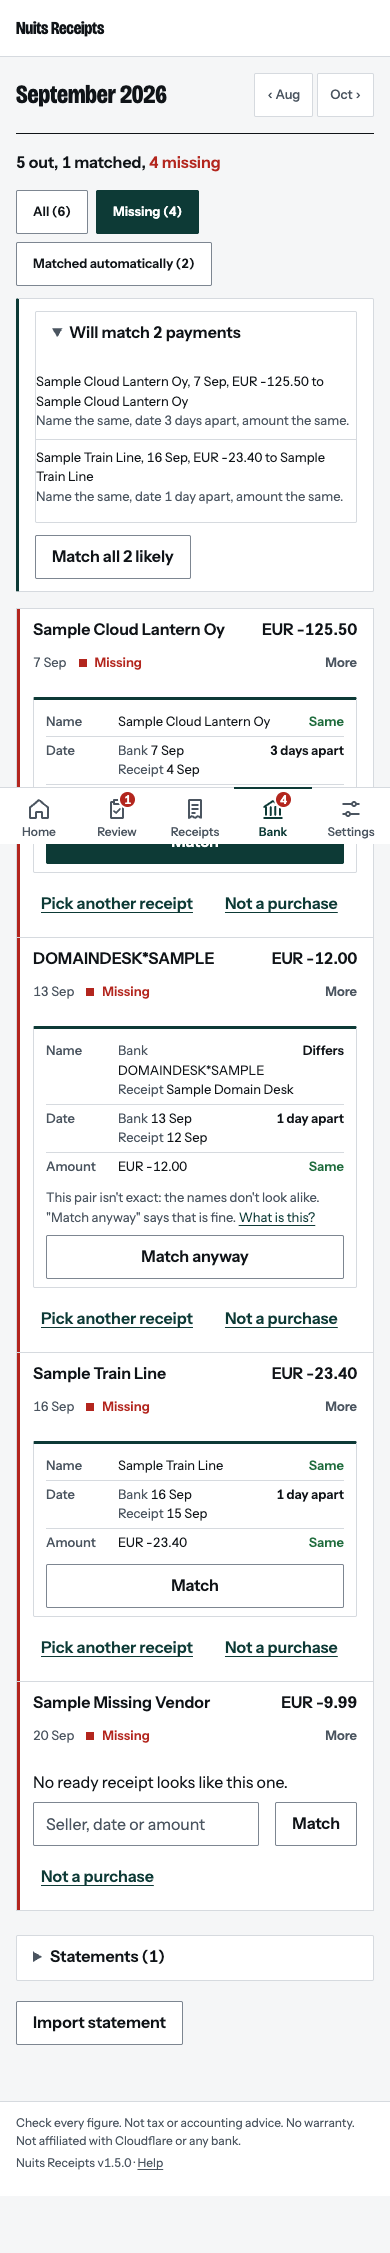
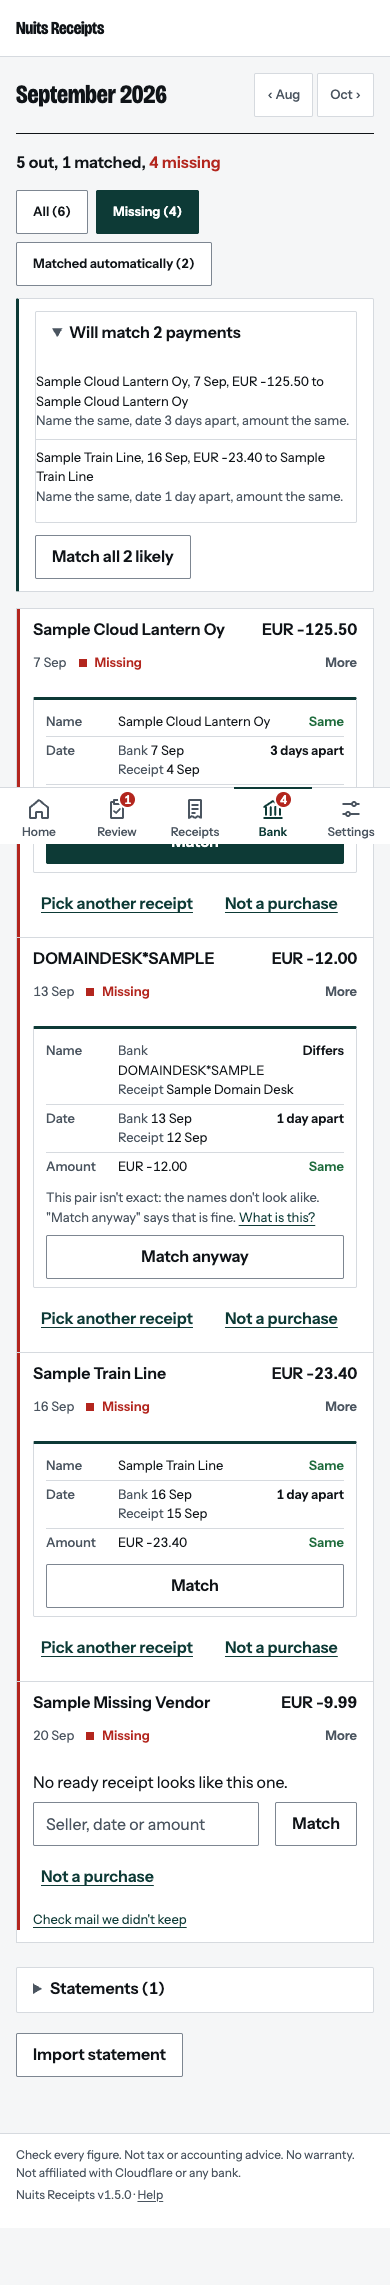
feat(settings): show mail we didn't keep, with Allow this sender
Lists dropped and ignored mail from the existing inbound_mail log (no migration),
reasons in MAIL_REASONS, Bank and Help links, and checklist proof from any arrived email.

diff --git a/src/views.ts b/src/views.ts
@@ -9,7 +9,7 @@ import { config, MAX_ALLOWED_SENDERS } from './config';
 import { setupParts, SETTINGS_CSP } from './setup';
 import { setupChecklist, setupSteps } from './checklist';
 import { helpBody } from './help';
-import { heldMail, ignoredSenders } from './inbound';
+import { droppedMail, hasRecentDropped, heldMail, ignoredSenders, reasonAllows, reasonWords } from './inbound';
 import { heldSection } from './all';
 import { mergePlan } from './dedupe';
 import { readableText } from './receipts';
@@ -795,6 +795,7 @@ export async function payments(
         ).all<Receipt>()
       ).results
     : [];
+  const droppedRecently = missing.length ? await hasRecentDropped(env) : false;
   const dayIn = (value: string | null, other: string) =>
     value ? day(value, value.slice(0, 4) !== other.slice(0, 4)) : 'None';
   // Name, Date and Amount side by side, each marked in words, with the one button under it.
@@ -877,7 +878,11 @@ export async function payments(
           : receipts.length
             ? matchControls(t, receipts, 'pick-receipts', 'Receipt', likely, first)
             : `<p class="none">No receipt found yet.</p><a class="btn ${first ? 'primary' : 'secondary'}" href="/add">Add receipt</a>`;
-        controls = `<div class="fixrow">${find}<form action="/payments/${t.id}" method="post"><button class="linkbtn" name="receipt_required" value="0">${STATUS.notPurchase}</button></form></div>${matchError(t.id)}`;
+        const dropped =
+          droppedRecently && !likely && !wait
+            ? `<p class="small"><a href="/settings?open=mail#mail">Check mail we didn't keep</a></p>`
+            : '';
+        controls = `<div class="fixrow">${find}<form action="/payments/${t.id}" method="post"><button class="linkbtn" name="receipt_required" value="0">${STATUS.notPurchase}</button></form></div>${dropped}${matchError(t.id)}`;
         if (receipts.length && !wait) extra.push('<p><a href="/add">Add a receipt</a></p>');
         const sides = credits.filter(
           (c) => c.account_key !== t.account_key && c.currency === t.currency && c.amount_minor === -t.amount_minor,
@@ -1278,12 +1283,32 @@ async function sendersPart(env: Env, open: boolean): Promise<string> {
   return sect('senders', 'Senders', `${allowed.length} allowed`, `${approved}${add}${ignoredList}`, open);
 }
 
+// Settings > Mail we didn't keep: what reached the app and was not read, from
+// the log that is already stored. Never the message itself.
+async function mailLogPart(env: Env, open: boolean): Promise<string> {
+  const rows = await droppedMail(env);
+  const allowed = config(env).allowedSenders;
+  const item = (m: (typeof rows)[number]) => {
+    const when = day(m.received_at.slice(0, 10), m.received_at.slice(0, 4) !== String(new Date().getUTCFullYear()));
+    const offer =
+      reasonAllows(m.reason) && !allowed.has(m.sender) && m.sender.includes('@') && !/[\s<>]/.test(m.sender);
+    const action = offer
+      ? `<form class="sc" action="/senders/approve" method="post"><input type="hidden" name="address" value="${escape(m.sender)}"><input type="hidden" name="back" value="mail"><button class="linkbtn" aria-label="Allow ${escape(m.sender)}">Allow this sender</button></form>`
+      : '';
+    return `<li class="srow"><div class="sl"><span class="flabel">${escape(m.sender)}</span><span class="meta">${escape(when)}${m.subject ? ` · ${escape(m.subject)}` : ''}</span><span class="meta">${escape(reasonWords(m.reason))}</span></div>${action}</li>`;
+  };
+  const body = rows.length
+    ? `<p class="meta">The latest ${rows.length === 1 ? 'one' : rows.length} that reached the app and were not read. Only the sender, subject and reason are kept.</p><ul class="plain rowlist">${rows.map(item).join('')}</ul>`
+    : '<p>Every email that reached the app was kept.</p>';
+  return sect('mail', "Mail we didn't keep", rows.length ? String(rows.length) : 'None', body, open);
+}
+
 // The form that adds a bank account in Settings, as a failure scope names it.
 export const NEW_ACCOUNT = 'account:new';
 export async function settingsPage(env: Env, params = new URLSearchParams(), origin = ''): Promise<Response> {
   const settings = config(env);
   // The section the last action touched opens; the rest stay folded.
-  const opened = feedback(params)?.section ?? '';
+  const opened = feedback(params)?.section ?? (params.get('open') === 'mail' ? 'mail' : '');
   const oneDrive = await oneDrivePart(env, opened === 'onedrive', origin);
   const setup = await setupParts(env, params, opened);
   const [accounts, rules] = await Promise.all([
@@ -1334,6 +1359,7 @@ export async function settingsPage(env: Env, params = new URLSearchParams(), ori
     ),
     sect('setup-email', 'Email', escape(settings.receiptAddress || 'Off'), setup.email, opens('email')),
     await sendersPart(env, opened === 'senders'),
+    await mailLogPart(env, opened === 'mail'),
     accountsPart,
     rulesPart,
     sect('setup-accountant', 'Export', escape(settings.accountantLabel), setup.accountant, opens('accountant')),

diff --git a/test/mail-log.test.ts b/test/mail-log.test.ts
@@ -1,0 +1,77 @@
+import { env } from 'cloudflare:workers';
+import { expect, test } from 'vitest';
+import { droppedMail, hasRecentDropped, MAIL_REASONS, reasonWords } from '../src/inbound';
+import { locationOf, request, signed } from './helpers';
+
+const sources: Record<string, string> = JSON.parse(env.SOURCE_FILES);
+
+test('every reason the code logs has words', () => {
+  const found = new Set<string>();
+  const skip = new Set(['imported', 'held', 'ignored', 'dropped', 'unknown', 'fail', 'pass']);
+  for (const file of ['inbound.ts', 'receipts.ts']) {
+    const text = sources[file] ?? '';
+    expect(text.length, file).toBeGreaterThan(0);
+    for (const m of text.matchAll(/(?:logMail|discard)\([^;]*;/g))
+      for (const t of m[0].matchAll(/'([a-z_]+)'/g)) if (!skip.has(t[1]!)) found.add(t[1]!);
+    for (const m of text.matchAll(/reason='(\w+)'/g)) found.add(m[1]!);
+    for (const m of text.matchAll(/'held','(\w+)'/g)) found.add(m[1]!);
+    for (const m of text.matchAll(/const reason = [^;]*;/g))
+      for (const t of m[0].matchAll(/'([a-z_]+)'/g)) found.add(t[1]!);
+  }
+  for (const word of skip) found.delete(word);
+  expect(found.size).toBeGreaterThan(5);
+  for (const reason of found) expect(Object.keys(MAIL_REASONS), reason).toContain(reason);
+  for (const reason of Object.keys(MAIL_REASONS)) expect(reasonWords(reason).length, reason).toBeGreaterThan(3);
+});
+
+const log = (sender: string, state: string, reason: string, at = new Date().toISOString(), subject = 'Hello') =>
+  env.DB.prepare('INSERT INTO inbound_mail (id,received_at,sender,subject,state,reason) VALUES (?,?,?,?,?,?)')
+    .bind(crypto.randomUUID(), at, sender, subject, state, reason)
+    .run();
+
+test('Settings says so when nothing was dropped', async () => {
+  const html = await (await request('/settings')).text();
+  expect(html).toContain('Every email that reached the app was kept.');
+  expect(await hasRecentDropped(env)).toBe(false);
+});
+
+test('Settings lists dropped mail newest first with words, and offers Allow only where it fits', async () => {
+  await log('shop@elsewhere.example', 'ignored', 'sender_ignored', '2026-09-01T10:00:00.000Z', 'Older <b>one</b>');
+  await log('spoof@bank.example', 'dropped', 'sender_auth_failed', '2026-09-02T10:00:00.000Z');
+  await log('kept@example.org', 'imported', 'allowed', '2026-09-03T10:00:00.000Z');
+  const rows = await droppedMail(env);
+  expect(rows.map((r) => r.sender)).toEqual(['spoof@bank.example', 'shop@elsewhere.example']);
+  const html = await (await request('/settings')).text();
+  expect(html).toContain("Mail we didn't keep");
+  expect(html).toContain('Older &lt;b&gt;one&lt;/b&gt;');
+  expect(html).toContain('Sender not allowed: you chose to ignore them.');
+  expect(html).toContain('Failed the sender check');
+  expect(html).not.toContain('kept@example.org');
+  expect(html).toContain('aria-label="Allow shop@elsewhere.example"');
+  expect(html).not.toContain('aria-label="Allow spoof@bank.example"');
+});
+
+test('Allow this sender names them in a signed banner with Undo, and the Bank link follows recent mail', async () => {
+  await log('shop@elsewhere.example', 'ignored', 'sender_ignored');
+  const form = new FormData();
+  form.set('address', 'shop@elsewhere.example');
+  form.set('back', 'mail');
+  const response = await request('/senders/approve', { method: 'POST', body: form });
+  expect(response.status).toBe(303);
+  const where = locationOf(response);
+  expect(where).toBe('/settings?done=senderAllowed&sender=shop%40elsewhere.example&n=0#mail');
+  const banner = await (
+    await request(await signed('/settings?done=senderAllowed&sender=shop%40elsewhere.example&n=0'))
+  ).text();
+  expect(banner).toContain('Allowed shop@elsewhere.example. Their next emails will be read.');
+  expect(banner).toContain('action="/senders/remove"');
+  expect(banner).toMatch(/<details class="sect" open><summary><h2>Mail we didn't keep/);
+  expect((await droppedMail(env)).length).toBe(1);
+});
+
+test('an old log entry does not count as recent', async () => {
+  await log('old@elsewhere.example', 'dropped', 'duplicate', new Date(Date.now() - 90 * 86400000).toISOString());
+  expect(await hasRecentDropped(env)).toBe(false);
+  await log('new@elsewhere.example', 'dropped', 'duplicate');
+  expect(await hasRecentDropped(env)).toBe(true);
+});

diff --git a/src/inbound.ts b/src/inbound.ts
@@ -47,6 +47,58 @@ export type MailFacts = {
   emailKey?: string | null;
 };
 
+// What each logged reason means, in words for the person. `allow` marks the
+// reasons where the sender was simply not on the list, so the log offers
+// "Allow this sender". test/mail-log.test.ts holds this to every reason the code logs.
+export const MAIL_REASONS = {
+  allowed: { words: 'Read normally.', allow: false },
+  sender_approved: { words: 'Read after you allowed the sender.', allow: false },
+  sender_unverified: { words: "We couldn't confirm who sent it.", allow: false },
+  sender_auth_failed: {
+    words: 'Failed the sender check (SPF or DKIM), so it may not be from who it says.',
+    allow: false,
+  },
+  sender_not_allowed: { words: 'Sender not allowed. Waiting in Review.', allow: true },
+  sender_ignored: { words: 'Sender not allowed: you chose to ignore them.', allow: true },
+  held_limit: { words: 'Sender not allowed, and too many of their emails were already waiting.', allow: true },
+  deleted: { words: 'Sender not allowed: you deleted this email from Review.', allow: true },
+  duplicate: { words: 'Already received: the same message is waiting or was read.', allow: false },
+  email_too_large: { words: 'Too large to read.', allow: false },
+  original_missing: { words: 'Its saved copy was gone, so it could not be read.', allow: false },
+} as const satisfies Record<string, { words: string; allow: boolean }>;
+export const reasonWords = (reason: string): string =>
+  (MAIL_REASONS as Record<string, { words: string }>)[reason]?.words ?? 'Not kept.';
+export const reasonAllows = (reason: string): boolean =>
+  (MAIL_REASONS as Record<string, { allow: boolean }>)[reason]?.allow ?? false;
+
+// Mail that was not kept, newest first. Only what the log stores, never the message.
+export type DroppedMail = Pick<MailRow, 'id' | 'received_at' | 'sender' | 'subject' | 'reason'>;
+export async function droppedMail(env: Env, limit = 50): Promise<DroppedMail[]> {
+  try {
+    return (
+      await env.DB.prepare(
+        "SELECT id,received_at,sender,subject,reason FROM inbound_mail WHERE state IN ('dropped','ignored') ORDER BY received_at DESC,id DESC LIMIT ?",
+      )
+        .bind(limit)
+        .all<DroppedMail>()
+    ).results;
+  } catch {
+    return [];
+  }
+}
+export async function hasRecentDropped(env: Env, days = 60): Promise<boolean> {
+  try {
+    const since = new Date(Date.now() - days * 86400000).toISOString();
+    return !!(await env.DB.prepare(
+      "SELECT 1 FROM inbound_mail WHERE state IN ('dropped','ignored') AND received_at>=? LIMIT 1",
+    )
+      .bind(since)
+      .first());
+  } catch {
+    return false;
+  }
+}
+
 export function domainOf(address: string): string {
   return address.slice(address.lastIndexOf('@') + 1);
 }

diff --git a/src/index.ts b/src/index.ts
@@ -37,7 +37,7 @@ import type { Receipt, Rule } from './domain';
 import { config, ConfigError, isProduct, MIN_PASSWORD_LENGTH, WEAK_PASSWORDS } from './config';
 import { verifyAccessJwt } from './access';
 import { FIELD, withSettings, type SettingKey } from './settings';
-import { approveSender, deleteHeld, ignoreSender, removeApproved, unignoreSender } from './inbound';
+import { approveSender, deleteHeld, ignoreSender, removeApproved, senderAddress, unignoreSender } from './inbound';
 import { allReceiptsPage } from './all';
 import { backPath, discardReason, discardReceipts, receiptIds, restoreBatch, restoreReceipts } from './discard';
 import { resetSetting, saveSetup, SETTINGS_JS } from './setup';
@@ -92,7 +92,9 @@ async function formData(request: Request, limit: number): Promise<FormData> {
 // where to go back to: Review (default), Settings or All receipts.
 async function senderAction(request: Request, env: Env, path: string, who: string, ctx: Waiter): Promise<Response> {
   const form = await formData(request, 4096);
-  const back = ({ settings: '/settings', receipts: '/receipts' } as Record<string, string>)[String(form.get('back'))];
+  const back = ({ settings: '/settings', mail: '/settings', receipts: '/receipts' } as Record<string, string>)[
+    String(form.get('back'))
+  ];
   const address = form.get('address');
   let event: EventKey, n: number | undefined;
   if (path === '/senders/approve') [event, n] = ['mailAllowed', await approveSender(env, address, who, ctx)];
@@ -109,6 +111,9 @@ async function senderAction(request: Request, env: Env, path: string, who: strin
     await unignoreSender(env, address);
     event = 'senderUnignored';
   } else return new Response('Not found', { status: 404 });
+  // Allow this sender, from the mail log: the banner names them and offers Undo.
+  if (path === '/senders/approve' && form.get('back') === 'mail')
+    return redirect(withDone('senderAllowed', '/settings#mail', { sender: senderAddress(address), n }));
   const settings = back === '/settings';
   return redirect(
     withDone(event, settings ? '/settings#senders' : (back ?? '/review'), { n, from: settings ? 'settings' : null }),

diff --git a/src/checklist.ts b/src/checklist.ts
@@ -29,8 +29,12 @@ export async function setupSteps(env: Env): Promise<SetupStep[]> {
   const address = !!settings.receiptAddress;
   // The migration seeds one account, "Bank account"; until it is renamed or another is added, the person has none of their own.
   const own = accounts.some((a) => !(a.id === 'default-account' && a.label === 'Bank account' && !a.bank_name));
-  // Email Routing can't be asked of Cloudflare, so a receipt that arrived by email is the proof.
-  const routed = address && !!state?.mail;
+  // Email Routing can't be asked of Cloudflare, so an email that reached the app is the proof, even one that was not kept.
+  // The log has a row for every email that arrived, kept or not. Missing before its migration.
+  const logged = await env.DB.prepare('SELECT EXISTS(SELECT 1 FROM inbound_mail) n')
+    .first<number>('n')
+    .catch(() => 0);
+  const routed = address && (!!state?.mail || !!logged);
   return [
     {
       id: 'business',
@@ -46,9 +50,9 @@ export async function setupSteps(env: Env): Promise<SetupStep[]> {
       action: address ? 'Confirm Email Routing in Cloudflare' : 'Set your receipt address',
       finished: 'Email Routing confirmed',
       why: routed
-        ? 'A receipt arrived by email, so it works.'
+        ? 'An email reached the app, so it works.'
         : address
-          ? 'Then forward one receipt to check it. A receipt that arrives by email completes this.'
+          ? 'Then forward one receipt to check it. Any email that reaches the app completes this.'
           : 'So receipts you forward are read.',
       href: address ? '/settings?routing=1#setup-email' : '/settings#f-RECEIPT_ADDRESS',
     },

diff --git a/src/events.ts b/src/events.ts
@@ -161,6 +161,22 @@ export const EVENTS = {
     section: (p) => (p.get('from') === 'settings' ? 'senders' : null),
   },
   mailDeleted: { text: () => 'Email deleted.', section: (p) => (p.get('from') === 'settings' ? 'senders' : null) },
+  // Allow this sender, from Settings > Mail we didn't keep. Undo takes them off the list again.
+  senderAllowed: {
+    text: (p) => {
+      const sender = words(p, 'sender', 'The sender');
+      return count(p, 'n')
+        ? `Allowed ${sender}. Reading ${plural(count(p, 'n'), 'email')}.`
+        : `Allowed ${sender}. Their next emails will be read.`;
+    },
+    undo: (p) => {
+      const sender = p.get('sender') ?? '';
+      return /^[^\s@<>()",;:]+@[^\s@<>()",;:]+\.[^\s@<>()",;:]+$/.test(sender) && sender.length <= 254
+        ? { action: '/senders/remove', fields: { address: sender, back: 'settings' } }
+        : null;
+    },
+    section: () => 'mail',
+  },
   senderRemoved: { text: () => 'Sender removed.', section: () => 'senders' },
   senderUnignored: { text: () => 'No longer ignored.', section: () => 'senders' },
   // ---------- Bank ----------

diff --git a/src/help.ts b/src/help.ts
@@ -58,6 +58,11 @@ const GLOSSARY: readonly HelpEntry[] = [
     term: 'Email Routing',
     text: 'A Cloudflare feature that hands the mail sent to your receipt address to this app. You add a rule once, in Cloudflare under Email, Email Routing, with the action Send to a Worker. The app can’t add it for you. It is confirmed when a forwarded receipt arrives.',
   },
+  {
+    ids: ['mail-not-kept'],
+    term: "Mail we didn't keep",
+    text: 'Email that reached the app but was not read: from a sender that is not allowed, one that failed the sender check, a duplicate, or one too large. Settings, Email shows the latest 50 with the date, sender, subject and why. The message itself is never shown. If the sender is one you trust, press Allow this sender.',
+  },
 ];
 
 const MATCHING: readonly HelpEntry[] = [

diff --git a/test/settings.test.ts b/test/settings.test.ts
@@ -157,6 +157,7 @@ test('the page is one fold per section, one Save per group and history tucked aw
     'setup-business',
     'setup-email',
     'senders',
+    'mail',
     'accounts',
     'rules',
     'setup-accountant',

diff --git a/docs/app-v3/after/RESULTS.md b/docs/app-v3/after/RESULTS.md
@@ -18,14 +18,14 @@ Screens: `/` → `/receipts/:id?done=uploaded` → `/` → `/settings` → `/set
 
 - Welcome screen says: Welcome Finish setting up 1 of 5 done DONE: Business name added So invoices you send are told apart from receipts. NEXT: Confirm Email Routing in Cloudflare The
 - Landed on /receipts/:id with title "Sample Cloud Lantern Oy"
-- Home after the first receipt: Finish setting up 1 of 5 done DONE: Business name added So invoices you send are told apart from receipts. NEXT: Confirm Email Routing in Cloudflare Then forward one receipt to check it. A receipt that arrives by email c
+- Home after the first receipt: Finish setting up 1 of 5 done DONE: Business name added So invoices you send are told apart from receipts. NEXT: Confirm Email Routing in Cloudflare Then forward one receipt to check it. Any email that reaches the app co
 - Saved: Saved your accountant.
 
 ### a. Mail arrives, every receipt approved
 
 Screens: `/` → `/review` → `/receipts/:id` → `/receipts/:id?done=approved` → `/review?done=approvedLast&month=2026-09&step=import`
 
-- Home on arrival (oldest month not sent): ‹ Aug September 2026 Oct › Finish setting up 3 of 5 done DONE: Business name added So invoices you send are told apart from receipts. DONE: Email Routing confirmed A receipt arrived by email, so it wo
+- Home on arrival (oldest month not sent): ‹ Aug September 2026 Oct › Finish setting up 3 of 5 done DONE: Business name added So invoices you send are told apart from receipts. DONE: Email Routing confirmed An email reached the app, so it work
 - Review lists 3 receipts.
 - Approved 3: Sample Coffee Corner, Sample Train Line, Sample Print Shop. Ended on /review.
 
@@ -47,7 +47,7 @@ Screens: `/receipts` → `/invoices` → `/add?kind=sales` → `/payments`
 
 ### c. September closed and marked sent
 
-Screens: `/` → `/?month=2026-09&done=sent&at=2026-10-24T16%3A23%3A18.071Z`
+Screens: `/` → `/?month=2026-09&done=sent&at=2026-10-24T16%3A48%3A03.733Z`
 
 - Home on arrival (September, the oldest month not sent): ‹ Aug September 2026 Oct › September isn't sent yet. It is ready to send. · Go to October DONE: Check All checked DONE: Match All matched NEXT: Send Ready Spent EUR 250.22 Download ZIP (4 KB) CSV Chec
 - Downloaded receipts-2026-09.zip
@@ -81,9 +81,11 @@ Screens: `/` → `/?month=2026-09&done=sent&at=2026-10-24T16%3A23%3A18.071Z`
 | [invoices](screens/invoices-1440.png) | 1440 | 1 | 0 |
 | [invoices](screens/invoices-390.png) | 390 | 1 | 0 |
 | [settings](screens/settings-1440.png) | 1440 | 1 | 0 |
-| [settings](screens/settings-390.png) | 390 | 1 | 0 |
-| [bank-likely](screens/bank-likely-1440.png) | 1440 | 2.5 | 0 |
-| [bank-likely](screens/bank-likely-390.png) | 390 | 2.67 | 0 |
+| [settings](screens/settings-390.png) | 390 | 1.04 | 0 |
+| [settings-mail](screens/settings-mail-1440.png) | 1440 | 1.16 | 0 |
+| [settings-mail](screens/settings-mail-390.png) | 390 | 1.31 | 0 |
+| [bank-likely](screens/bank-likely-1440.png) | 1440 | 2.54 | 0 |
+| [bank-likely](screens/bank-likely-390.png) | 390 | 2.71 | 0 |
 | [help](screens/help-1440.png) | 1440 | 1.58 | 0 |
 | [help](screens/help-390.png) | 390 | 2.24 | 0 |
 | [help-flags](screens/help-flags-1440.png) | 1440 | 1.78 | 0 |
